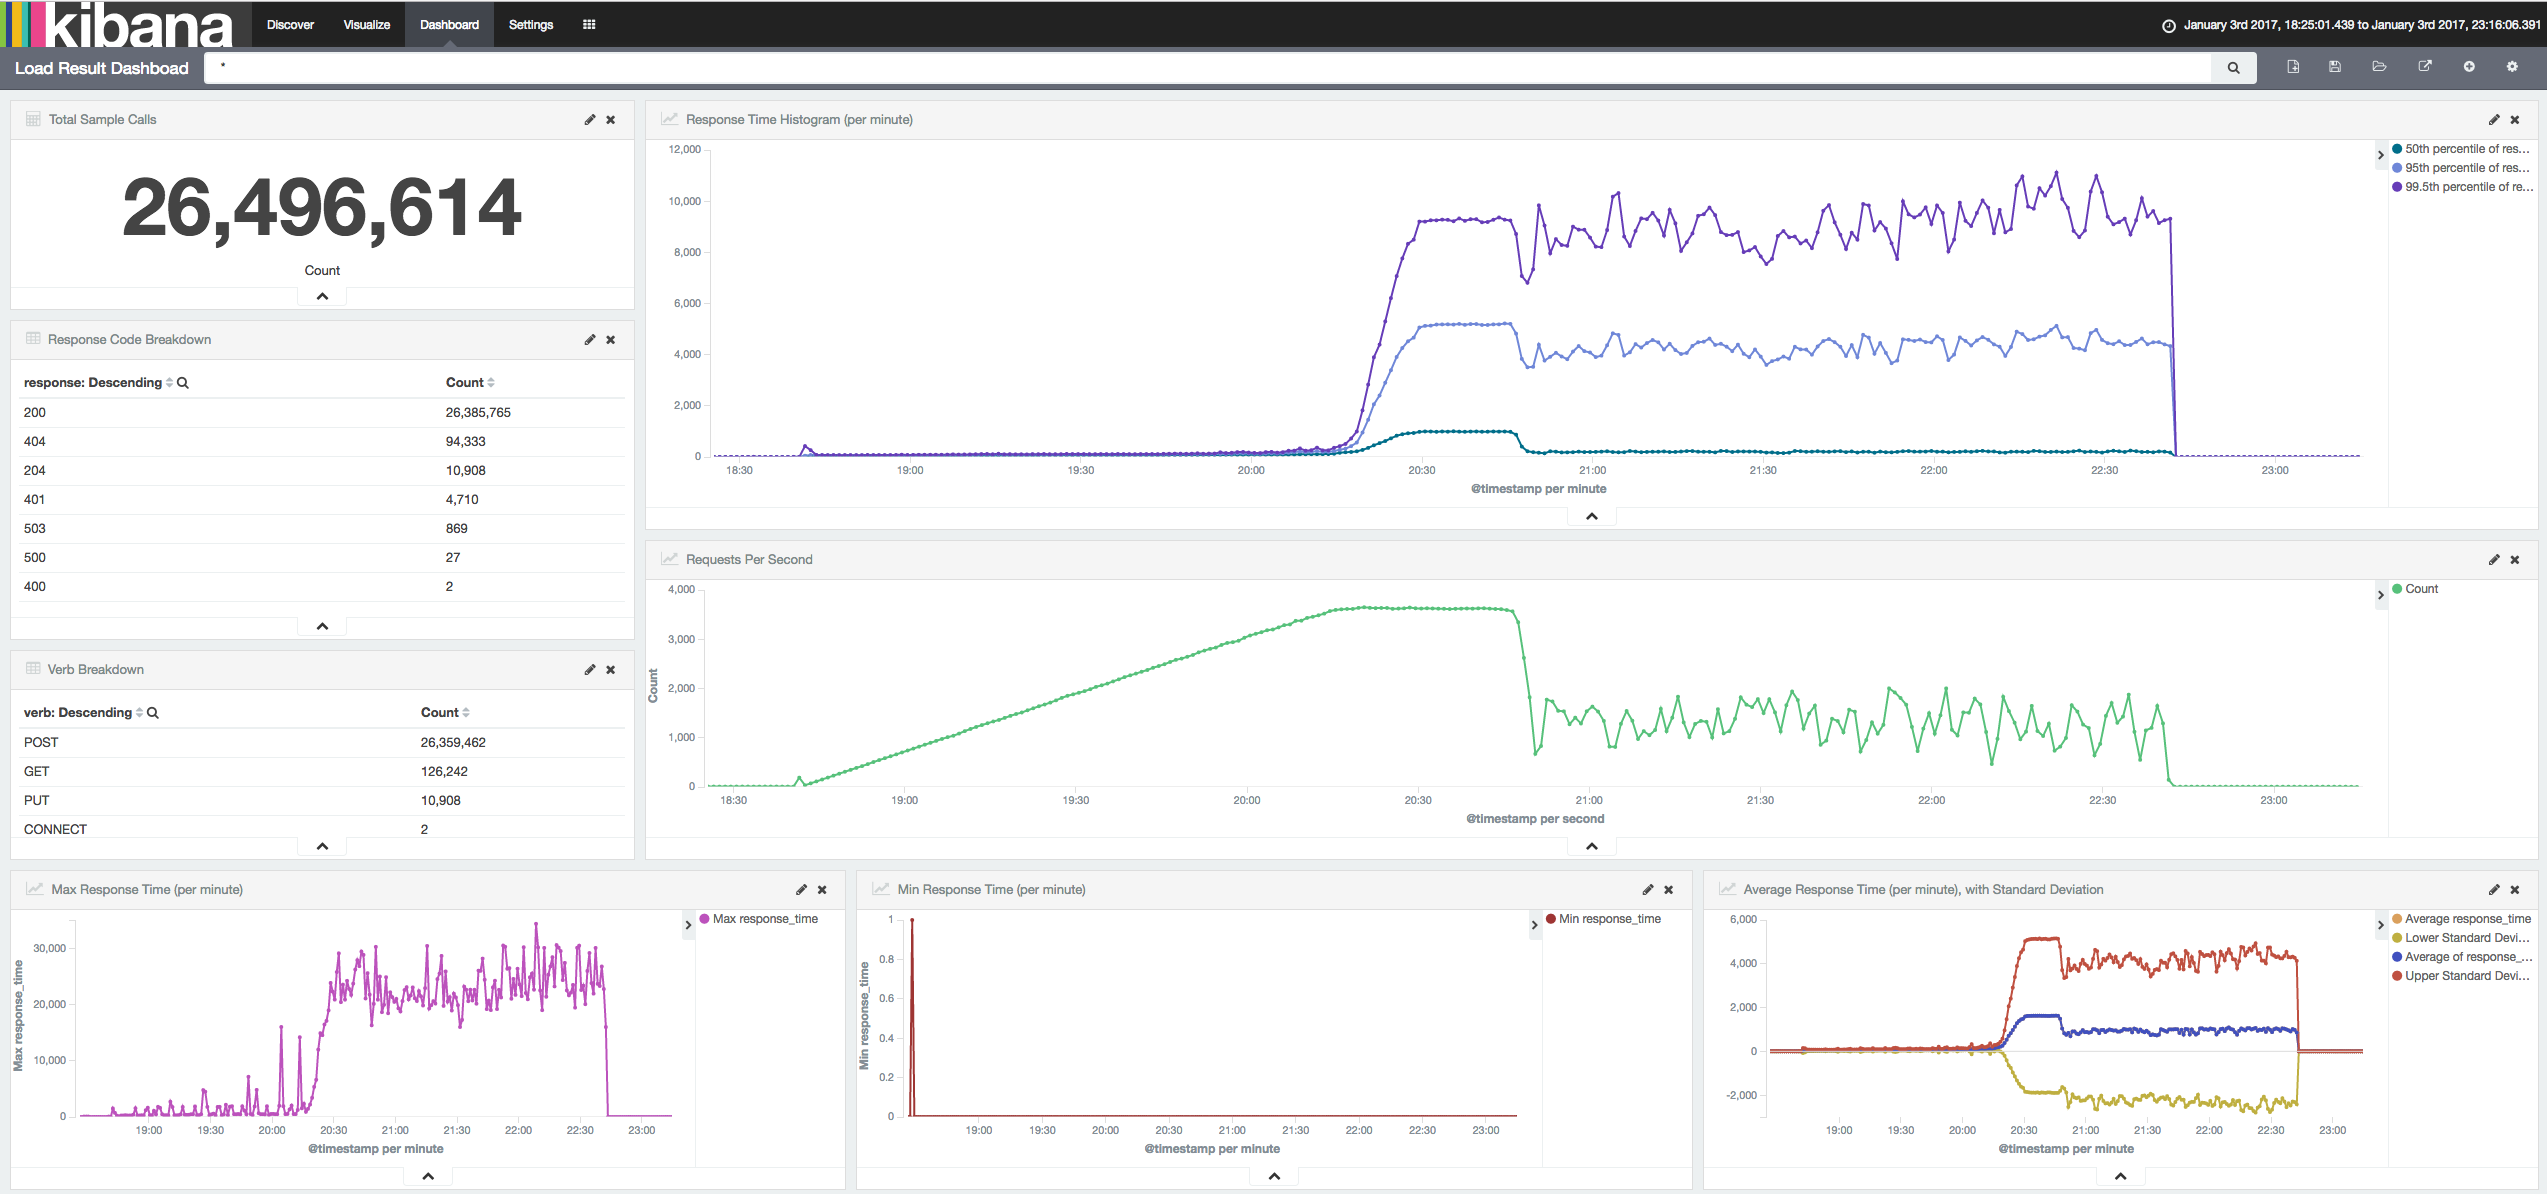
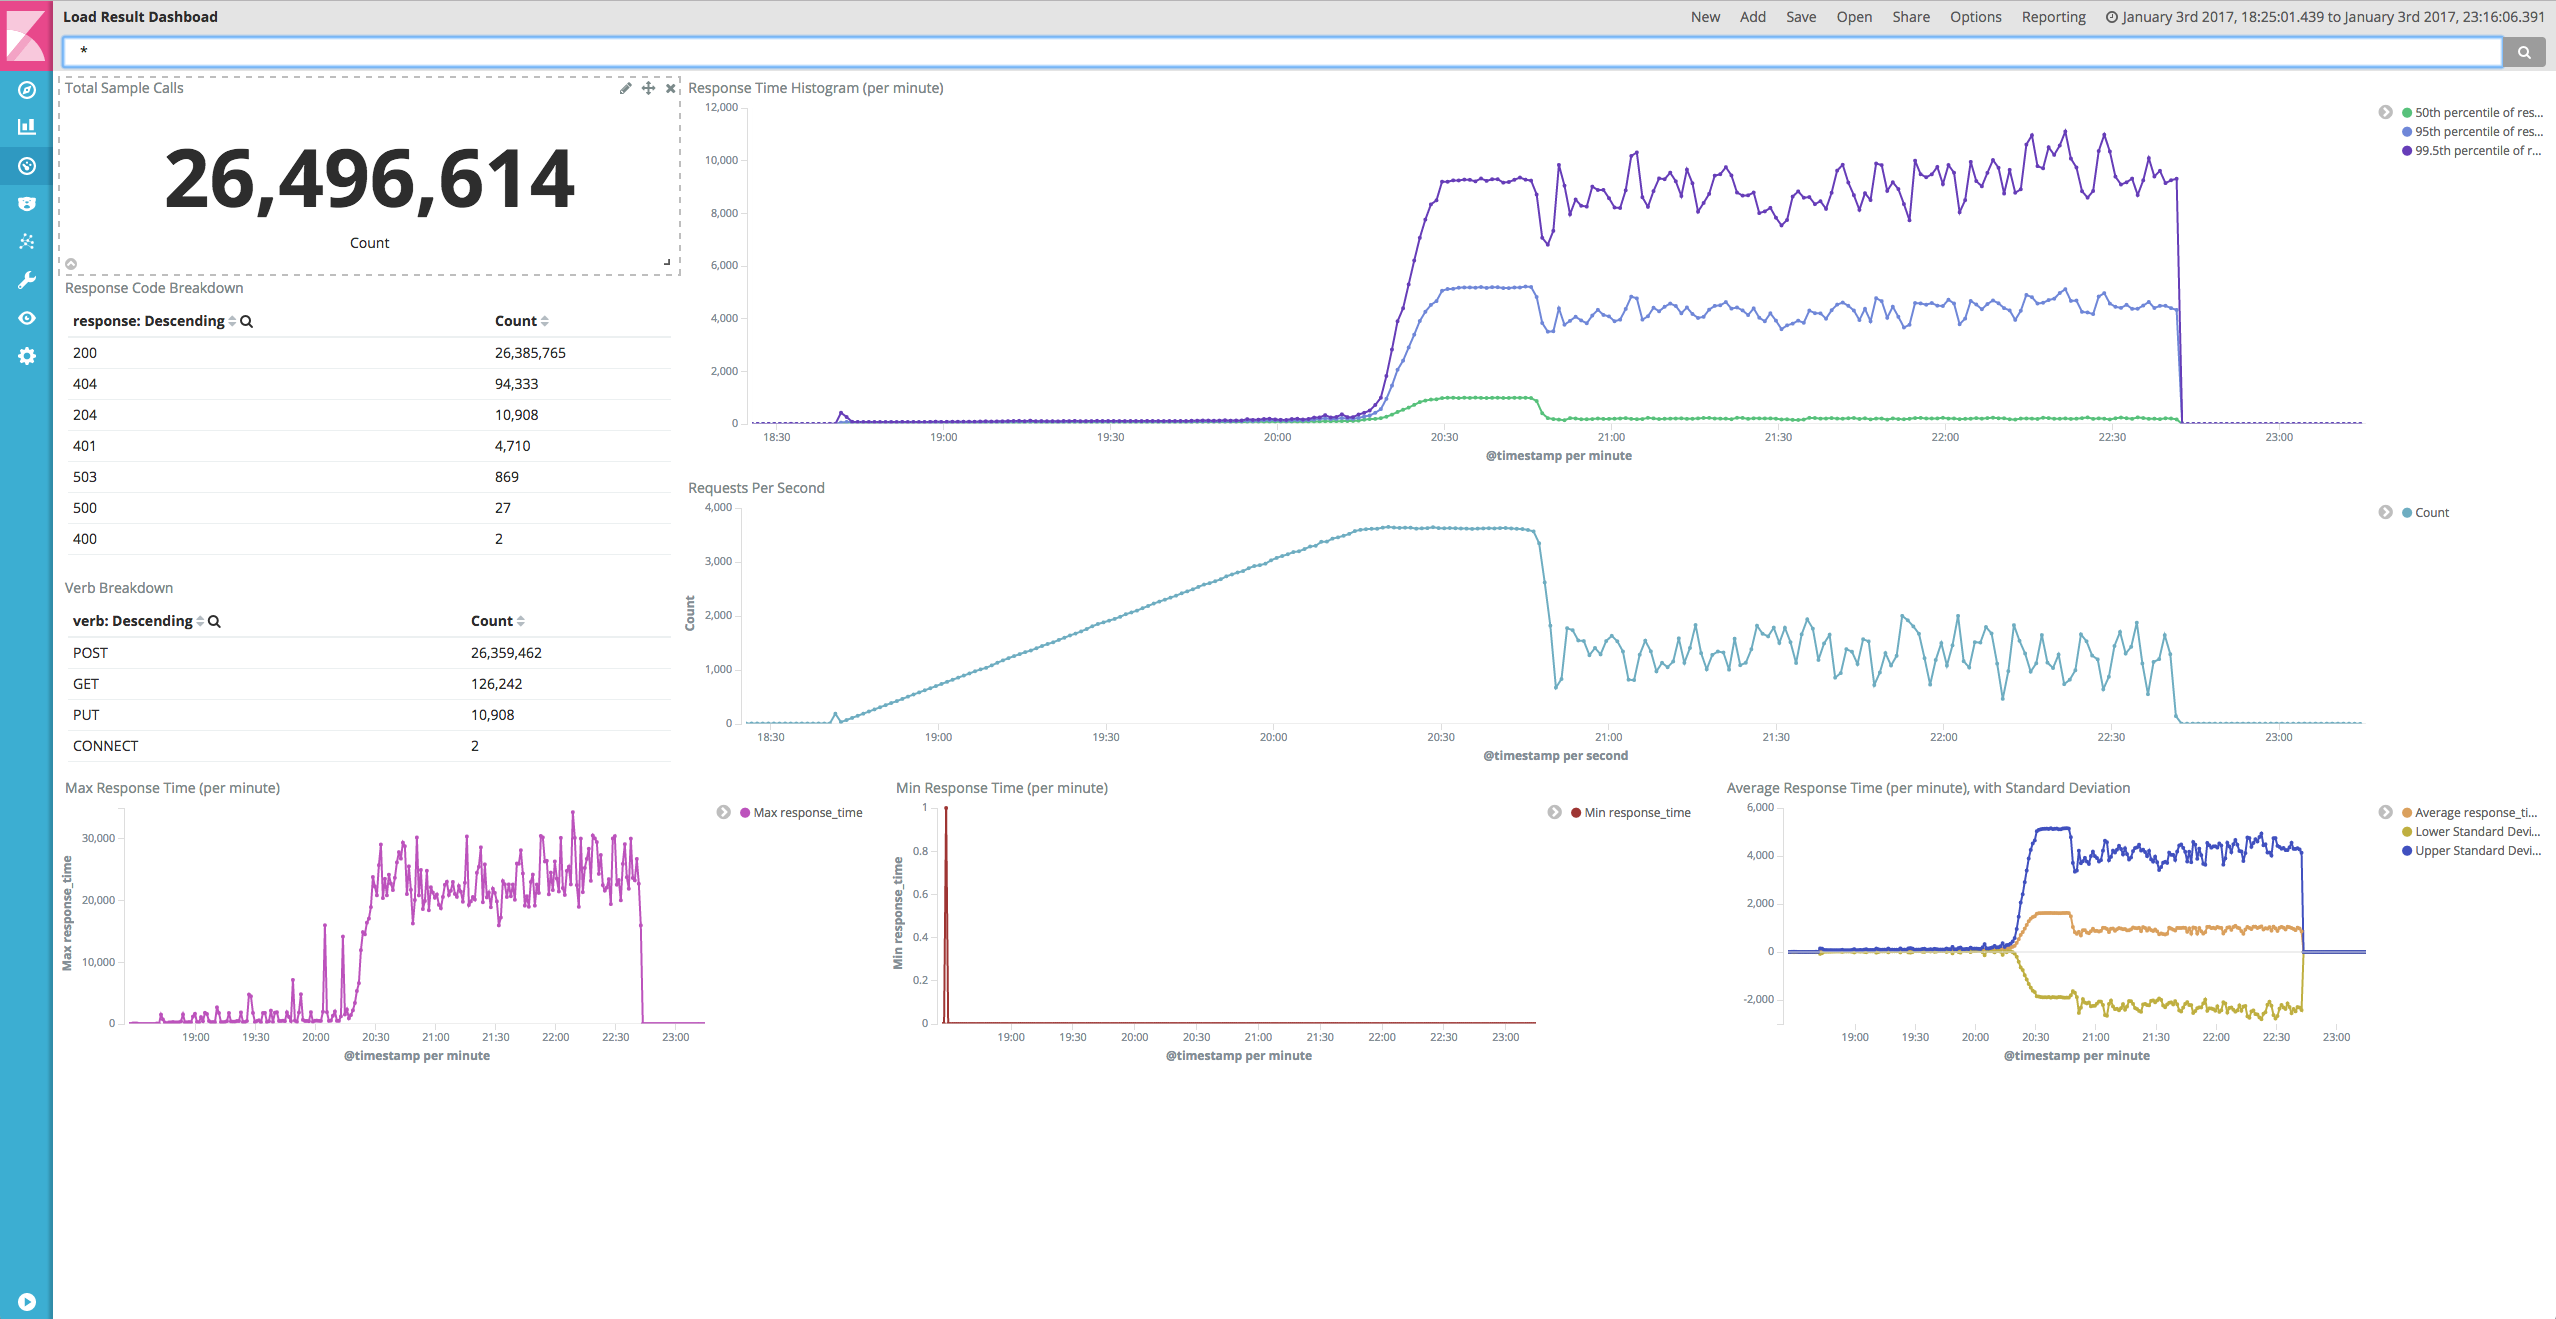
Add support for ELK 5.1 components:  * Move to Elastic.co's images (tag: 5.1.2) for both Elasticsearch and Kibana as these are now pretty solid  * Update environment blocks in docker-compose.yml:    * Master now listens to 0.0.0.0, turns off xpack security (this is for local dashboards only), adds C

diff --git a/README.md b/README.md
@@ -25,17 +25,15 @@ docker-compose -f docker-compose.yml up -d
 You don't even need to get this repo to use it - only the [docker-compose.yml](docker-compose.yml) file. Want to build your own image and hack around? Grab the repo.
 
 Once running, you can find your services at:
- * [Marvel at http://localhost:5601/app/marvel](http://localhost:5601/app/marvel)
+ * [Monitoring at http://localhost:5601/app/monitoring](http://localhost:5601/app/monitoring)
  * [Kibana at http://localhost:5601/app/kibana](http://localhost:5601/app/kibana)
 
 ## What's it going to do?
 It'll spin up a cluster that looks like:
- * 1 Elasticsearch master (`node.data` set to false, `node.master` set to true)
- * 1 Elasticsearch slave (`node.data` set to true, `node.master` set to false)
+ * 1 Elasticsearch master
+ * 1 Elasticsearch slave (`node.master` set to false)
  * 1 Kibana node pointing at the ES master
  * 1 Logstash node pointing at the ES master
-
-The images for these containers all come from the [8x8cloud repo](https://hub.docker.com/u/8x8cloud/).
 
 Once the cluster spins up, the Logstash node will use a pre-baked `logstash.conf` and Elasticsearch index template for your logs. The expected format is NCSA-request with an extra "latency" value at the end (IE: first byte to last byte). Any files in the specified `LOG_DIR` environment variable with the string `request.log` in it (prefix, suffix, wherever) will be indexed. That means `bob-request.log.12345` will be indexed, as will `request.log` or `request.log.12345`.
 
@@ -57,9 +55,9 @@ docker-compose -f docker-compose.yml -f docker-compose.config.yml up -d
 
 Maybe you have a fixed path, and want to know how many requests Customer X got instead of Customer Y. Maybe your request format is weird. Maybe you're a masochist. Who cares! Feel free to grab the [logstash.conf](https://raw.githubusercontent.com/8x8Cloud/logstash-in-a-box/master/app/logstash.conf) and [jetty-request-template.json](https://raw.githubusercontent.com/8x8Cloud/logstash-in-a-box/master/app/jetty-request-template.json) out of the `app` directory as a guide.
 
-Oh, it comes with Marvel too, so you can know whether or not your indexing is still going:
+Oh, it comes with Monitoring too, so you can know whether or not your indexing is still going:
 
-![Marvel stats](https://raw.githubusercontent.com/8x8Cloud/logstash-in-a-box/master/docs/marvel-screen.png)
+![Monitoring stats](https://raw.githubusercontent.com/8x8Cloud/logstash-in-a-box/master/docs/monitoring-screen.png)
 
 ## Other things of interest
 
@@ -73,18 +71,6 @@ docker volume ls -f dangling=true -q | xargs docker ...
 ```
 
 *(Please note the above will destroy all dangling volumes, so make sure you mean to run it. Otherwise, you can delete them one at a time using `docker volume rm`. Ellipsis for your protection.)*
-
-#### Scaling in slave nodes
-
-Want to scale more ElasticSearch nodes in?
-```bash
-# Now we'll have a total of 3 slave nodes with data on them
-docker-compose scale elasticsearch-slave=3
-```
-
-You're probably going to want to scale this to 3 slaves as Marvel may complain if you don't. There's not really much point in going over 3 Elasticsearch instances as Logstash tends to be the indexing bottleneck, and not Elasticsearch. Remember that each Elasticsearch instance will use a dedicated block of memory for its minimum heap size, so setting this to a high number will eventually hurt you.
-
-Why not set this out of the box? That feature won't exist until Docker Compose v3 (hopefully).
 
 ## What is this?
 The Docker image itself is an Alpine Linux build based on `frolvlad/alpine-oraclejdk8:slim`, that then installs a copy of Logstash. Upon starting the image, it will attempt to restore a set of Kibana dashboards, index patterns, searches and visualizations  in the `kibana-goodies` directory. These were hand crafted objects exported using one of the dump scripts from the [Beats Dashboards](https://github.com/elastic/beats-dashboards) (see the `save` directory).
